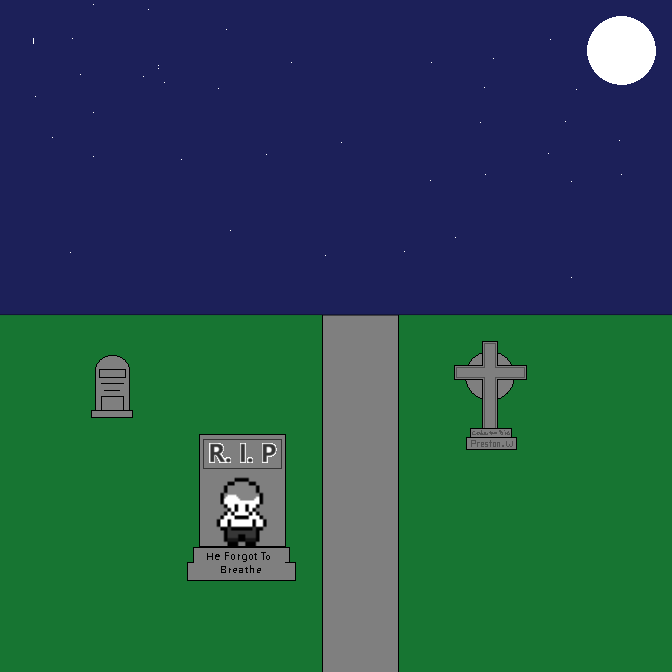
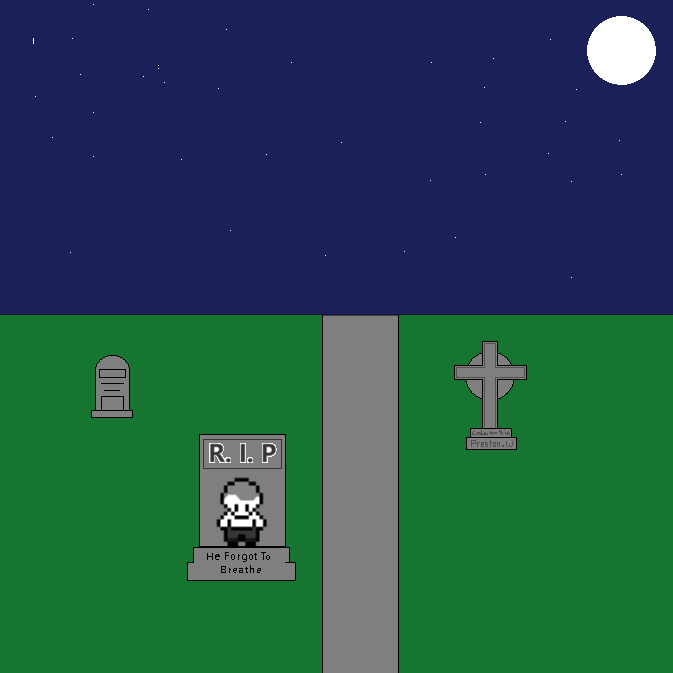
fixed death screen size and added it into the game

diff --git a/escape_room.java b/escape_room.java
@@ -23,10 +23,12 @@ public class escape_room extends PApplet {
   PImage[] imgPlayerUp;
   PImage[] imgPlayerDown;
 
-  // starting screen variables
+  // game starting and ending variables
   PImage imgStartingScreen;
   PImage imgEndingScreen;
-  boolean blnStartButtonPressed, blnEasy, blnMedium, blnHard, blnMediumSelected, blnHardSelected = false;
+  PImage imgDeathScreen;
+  boolean blnGameStarting, blnEndingAnimation, blnGameEnding, blnScoreScreen, blnPatrickEasterEgg,  blnStartButtonPressed, blnEasy, blnMedium, blnHard, blnMediumSelected, blnHardSelected = false;
+  int intEasterEggsFound, intPatrickEasterEggTimer, intTotalScore = 0;
 
   // level 2 and 3 variables 
   PImage[] imgPage;
@@ -73,7 +75,6 @@ public class escape_room extends PApplet {
   String[] strArrows = {"", "LEFT ", "RIGHT ", "UP ", "DOWN "};
   String strArrowCode = "";
 
-
   // level 15 variables
   boolean blnRatEasterEgg = false;
   int intRatEasterEggTimer = 0;
@@ -81,10 +82,6 @@ public class escape_room extends PApplet {
   // player direction
   String strDirection = "Down";
   
-  // game starting and ending variables
-  boolean blnGameStarting, blnEndingAnimation, blnGameEnding, blnScoreScreen, blnPatrickEasterEgg = false;
-  int intEasterEggsFound, intPatrickEasterEggTimer, intTotalScore = 0;
-
   // game oxygen meter variables
   boolean blnOxygenMeter = false;
   int intOxygenMeter = 1;
@@ -94,7 +91,7 @@ public class escape_room extends PApplet {
   boolean[] blnNextLevel = new boolean[8];
   boolean[] blnLeftLevel = new boolean[4];
   int intNumLevels = 16;
-  int intLevel = 14;
+  int intLevel = 0;
   
   // number of frames for each player animation 
   int intNumFrames = 4;
@@ -319,6 +316,9 @@ public class escape_room extends PApplet {
     // loading in the end screen
     imgEndingScreen = loadImage("escape_room/endScreen.png");
 
+    // loading in the death screen
+    imgDeathScreen = loadImage("escape_room/deathScreen.png");
+
   }
 
   /**
@@ -422,9 +422,10 @@ public class escape_room extends PApplet {
 
       }
 
-    } else if (blnGameEnding == false && blnGameStarting == false && intOxygenMeter < 0) {
-
-      //image
+    } else if (intOxygenMeter <= 0) {
+      
+      clear();
+      image(imgDeathScreen,0,0);
 
     }
   }
